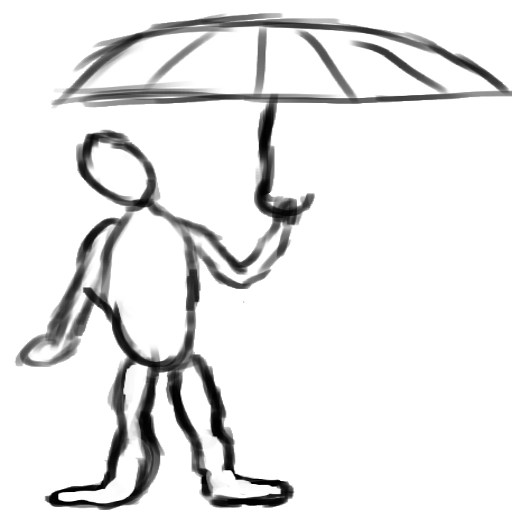
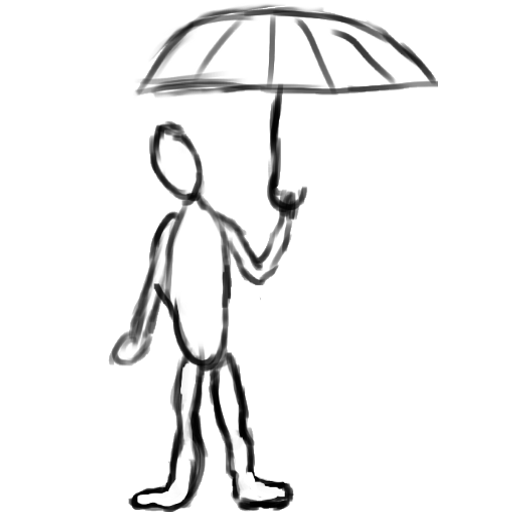
modified:   images/player.png 	modified:   index.html 	deleted:    index.html~ 	modified:   js/Player.js 	modified:   js/Quad.js 	modified:   js/Sky.js 	modified:   js/main.js 	js/BoundingBox.js

Changed region(s): [[0.0312, 0.0, 1.0, 1.0]]

diff --git a/site/js/Player.js b/site/js/Player.js
@@ -11,11 +11,26 @@ function Player(width, height, xPos, yPos) {
     this.falling = true;
     this.onCloud = false;
     this.horCol = false;
+    this.verCol = false;
+    this.cloudOn;
     
     this.update = function(delta) {
 	this.xPos += (this.xVel * delta) / 1000.0;
 	this.yPos += (this.yVel * delta) / 1000.0;
 
+	this.alignBBoxes();
+
+	if(this.verCol) {
+	    this.yPos -= (this.yVel * delta) / 1000.0;
+	    this.verCol = false;
+	    this.onCloud = true;
+	} else if (this.horCol) {
+	    this.xPos -= (this.xVel * delta) / 1000.0;
+	    this.yVel += -2;
+	} 
+	if(!this.onCloud) {
+	    this.yVel += -2;
+	}
 	if (keydown.left && !this.onCloud) {
 	    this.xVel += -2;
 	} else if (keydown.right && !this.onCloud) {
@@ -24,29 +39,35 @@ function Player(width, height, xPos, yPos) {
 	    this.xVel += -6;
 	} else if (keydown.right && this.onCloud) {
 	    this.xVel += 6;
+	} else if (keydown.up && this.onCloud) {
+	    this.yVel += 10;
 	}
-
-	if (this.onCloud) {
-	    this.yPos -= (this.yVel * delta) / 1000.0;
-	    this.yVel = 0;
-	} else if (this.horCol) {
-	    this.xPos -= (this.xVel * delta) / 1000.0;
-	    this.xVel = 0;
-	    this.horCol = false;
-	} else {
-	    this.yVel += -2;
-	}
-
-	console.log("isOnCloud: " + this.onCloud + "\nIsHorColling: " + this.horCol);
     }
-
-    this.checkCollision = function(cloud) {
-	if (this.collides(this, cloud)) {
-	    this.onCloud = true;
-	    return true;
+    this.handleCollision = function(a, b) {
+	var xOverlap;
+	var yOverlap;
+	if(a.xPos + a.width < b.xPos + b.width && a.yPos > b.yPos) {
+	    xOverlap = a.xPos + a.width - b.xPos;
+	    yOverlap = b.yPos + b.height - a.yPos;
+	} else if (a.xPos + a.width < b.xPos + b.width && a.yPos < b.yPos) {
+	    xOverlap = a.xPos + a.width - b.xPos;
+	    yOverlap = a.yPos + a.height - b.yPos;
+	} else if (a.xPos + a.width > b.xPos + b.width && a.yPos > b.yPos) {
+	    xOverlap = b.xPos + b.width - a.xPos;
+	    yOverlap = b.yPos + b.height - a.yPos;
+	} else if (a.xPos + a.width > b.xPos + b.width && a.yPos < b.yPos) {
+	    xOverlap = b.xPos + b.width - a.xPos;
+	    yOverlap = a.yPos + a.height - b.yPos;
 	} else {
-	    this.onCloud = false;
-	    return false;
+	    //Christ knows what's happening. Bail. Bail. Bail.
+	    console.log("ERROR");
+	    return 0;
+	}
+	if(xOverlap > yOverlap) {
+	    this.verCol = true;
+	    this.cloudOn = b;
+	} else {
+	    this.horCol = true;
 	}
     }
     this.collides = function(a, b) {
@@ -54,5 +75,11 @@ function Player(width, height, xPos, yPos) {
 	    a.xPos + a.width > b.xPos &&
 	    a.yPos < b.yPos + b.height &&
 	    a.yPos + a.height > b.yPos;
-	}
+    }
+    this.isOnCloud = function(cloud) {
+	return this.xPos < cloud.xPos  + cloud.width &&
+ 	       this.xPos + this.width  > cloud.xPos &&
+	       this.yPos < cloud.yPos  + cloud.height &&
+	       this.yPos + this.height > cloud.yPos;
+    }
 }

diff --git a/site/js/Quad.js b/site/js/Quad.js
@@ -11,6 +11,7 @@ function Quad() {
     var texture;
     this.width;
     this.height;
+    this.bBoxes = new Array();
 
     this.setX = function(x) {
 	this.xPos = x;
@@ -52,7 +53,7 @@ function Quad() {
 	    ];
 
 	gl.bufferData(gl.ELEMENT_ARRAY_BUFFER, new Uint16Array(indices), gl.STATIC_DRAW);
-    }
+    };
     this.update = function(delta) {
 	this.xPos += (this.xVel * delta) / 1000.0;
 	this.yPos += (this.yVel * delta) / 1000.0;
@@ -82,8 +83,8 @@ function Quad() {
 	//pop back to old matrix
 	mvPopMatrix();                      
     };
-    this.uDraw = function(posAttr, texAttr) { //because there's no real concept of a 'super' call in JS, specific objects can draw what they want, called after object draw calls.
-    }
+    this.uDraw = function(posAttr, texAttr) { //because there's no real concept of a 'super' call in JS, specific objects can draw what they want
+    };
     var initTexture = function (image, texture) {
 	gl.bindTexture(gl.TEXTURE_2D, texture);
 	gl.texImage2D(gl.TEXTURE_2D, 0, gl.RGBA, gl.RGBA, gl.UNSIGNED_BYTE, image);
@@ -91,13 +92,22 @@ function Quad() {
 	gl.texParameteri(gl.TEXTURE_2D, gl.TEXTURE_MIN_FILTER, gl.LINEAR_MIPMAP_NEAREST);
 	gl.generateMipmap(gl.TEXTURE_2D);
 	gl.bindTexture(gl.TEXTURE_2D, null);
-    }
+    };
     this.loadTexture = function(src) {
 	image = new Image();
 	texture = gl.createTexture();
 	image.onload = function() {
-	initTexture(image, texture);
+	    initTexture(image, texture);
 	}
 	image.src = src;
+    };
+    this.loadBBox = function(BoundingBox) {
+	this.bBoxes.push(BoundingBox);
+    };
+    this.alignBBoxes = function() {
+	for(var i  = 0; i < this.bBoxes.length; i++) {
+	    this.bBoxes[i].xPos = this.xPos + this.bBoxes[i].xOff;
+	    this.bBoxes[i].yPos = this.yPos + this.bBoxes[i].yOff;
+	}
     }
 }

diff --git a/site/js/main.js b/site/js/main.js
@@ -105,13 +105,14 @@ function updateScene() {
 	var dt = startTime - lastUpdate;
 	sky.update(dt);
 	
-	for(var i = 0.0; i < sky.clouds.length; i++) {
-	    if(player.checkCollision(sky.clouds[i])) {
-		break;
-	    } else {
-		continue;
-	    }
-	}
+	sky.clouds.forEach(function(cloud) {
+
+	    player.bBoxes.forEach(function(bBox) {
+		if(player.collides(bBox, cloud)) {
+		    player.handleCollision(bBox, cloud);
+		}
+	    });
+	});
 
 	player.update(dt);
     }
@@ -136,9 +137,10 @@ function initWorld() {
     sky.loadTexture("../images/sky.png");
     sky.bufferUp();
 
-    player = new Player(50, 100, 200, 500);
+    player = new Player(100, 100, 200, 500);
     player.loadTexture("../images/player.png");
     player.bufferUp();
+    player.loadBBox(new BoundingBox(22, 0, 37, 76));
 }
 
 function initShaders() {

diff --git a/site/index.html b/site/index.html
@@ -6,9 +6,11 @@
       <script src="http://ajax.googleapis.com/ajax/libs/jquery/1.7.1/jquery.min.js" type="text/javascript"></script>
       <script src="js/jquery.hotkeys.js" type="text/javascript"></script>
       <script src="js/keyStatus.js" type="text/javascript"></script>
+      <script src="js/pixastic.custom.js" type="text/javascript"></script>
       <script src="js/sylvester.js" type="text/javascript"></script>
       <script src="js/glUtils.js" type="text/javascript"></script>
 
+      <script src="js/BoundingBox.js" type="text/javascript"></script>
       <script src="js/Timer.js" type="text/javascript"></script>
       <script src="js/Quad.js" type="text/javascript"></script>
       <script src="js/Cloud.js" type="text/javascript"></script>

diff --git a/site/js/Sky.js b/site/js/Sky.js
@@ -11,7 +11,6 @@ function Sky(width, height, xPos, yPos) {
     this.clouds = new Array();
 
     this.genCloud = function() {
-	console.log("called");
 	var width = 100;
 	var height = 100;
 	var xPos = Math.floor(Math.random() * 401);
